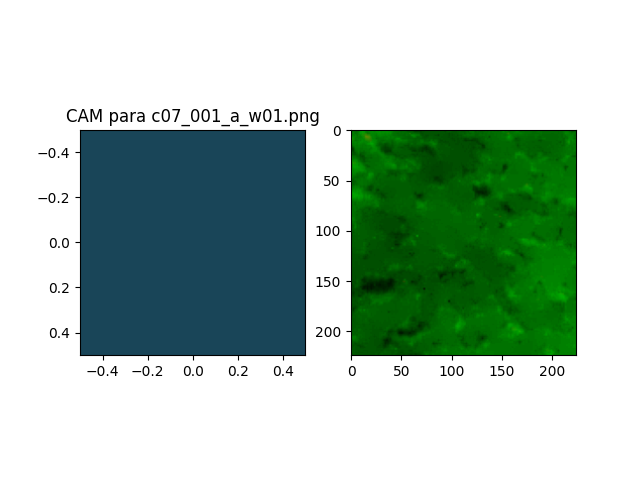
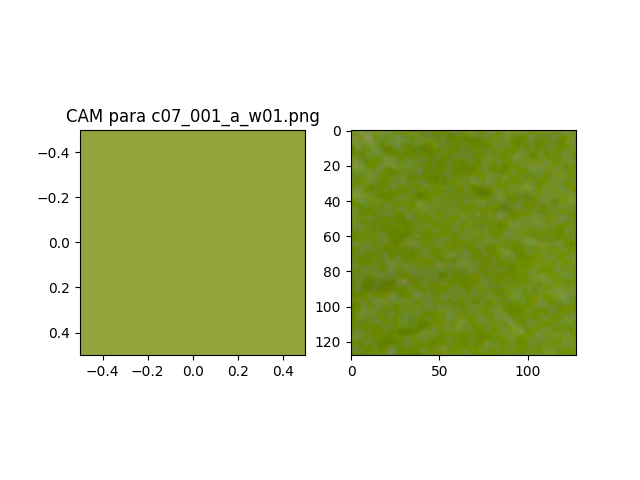
Teste

diff --git a/model.py b/model.py
@@ -90,23 +90,17 @@ for i in range(len(images_tensor)):
     if filenames[i] in target_filenames:
         activation_map = activation.squeeze(0).mean(dim=0).cpu().numpy()  # Calcula a média dos mapas de ativação
 
-        # Normaliza o mapa de ativação para [0, 1] para visualização
-        denominator = activation_map.max() - activation_map.min()
-        if denominator == 0:
-            activation_map = np.zeros_like(activation_map)  # Ou use um valor constante, como 0.5
-        else:
-            activation_map = (activation_map - activation_map.min()) / denominator
+        activation_map = (activation_map - activation_map.min()) / ((activation_map.max()) - activation_map.min())
 
         # Exibir a imagem original e o mapa de ativação sobreposto
         # Plotar a imagem e o CAM
-        img = img.cpu().squeeze(0).permute(1, 2, 0)
         activation_map_path = os.path.join(output_dir, f'{filenames[i]}_activation_map.png')
         plt.subplot(1, 2, 1)
-        plt.imshow(img, alpha=0.8)
+        plt.imshow(original_images[i], alpha=0.8)
         plt.imshow(activation_map, cmap="jet", alpha=0.5)
         plt.title(f"CAM para {filenames[i]}")
         plt.subplot(1, 2, 2)
-        plt.imshow(img)
+        plt.imshow(original_images[i])
         plt.savefig(activation_map_path)
         plt.close()
 
